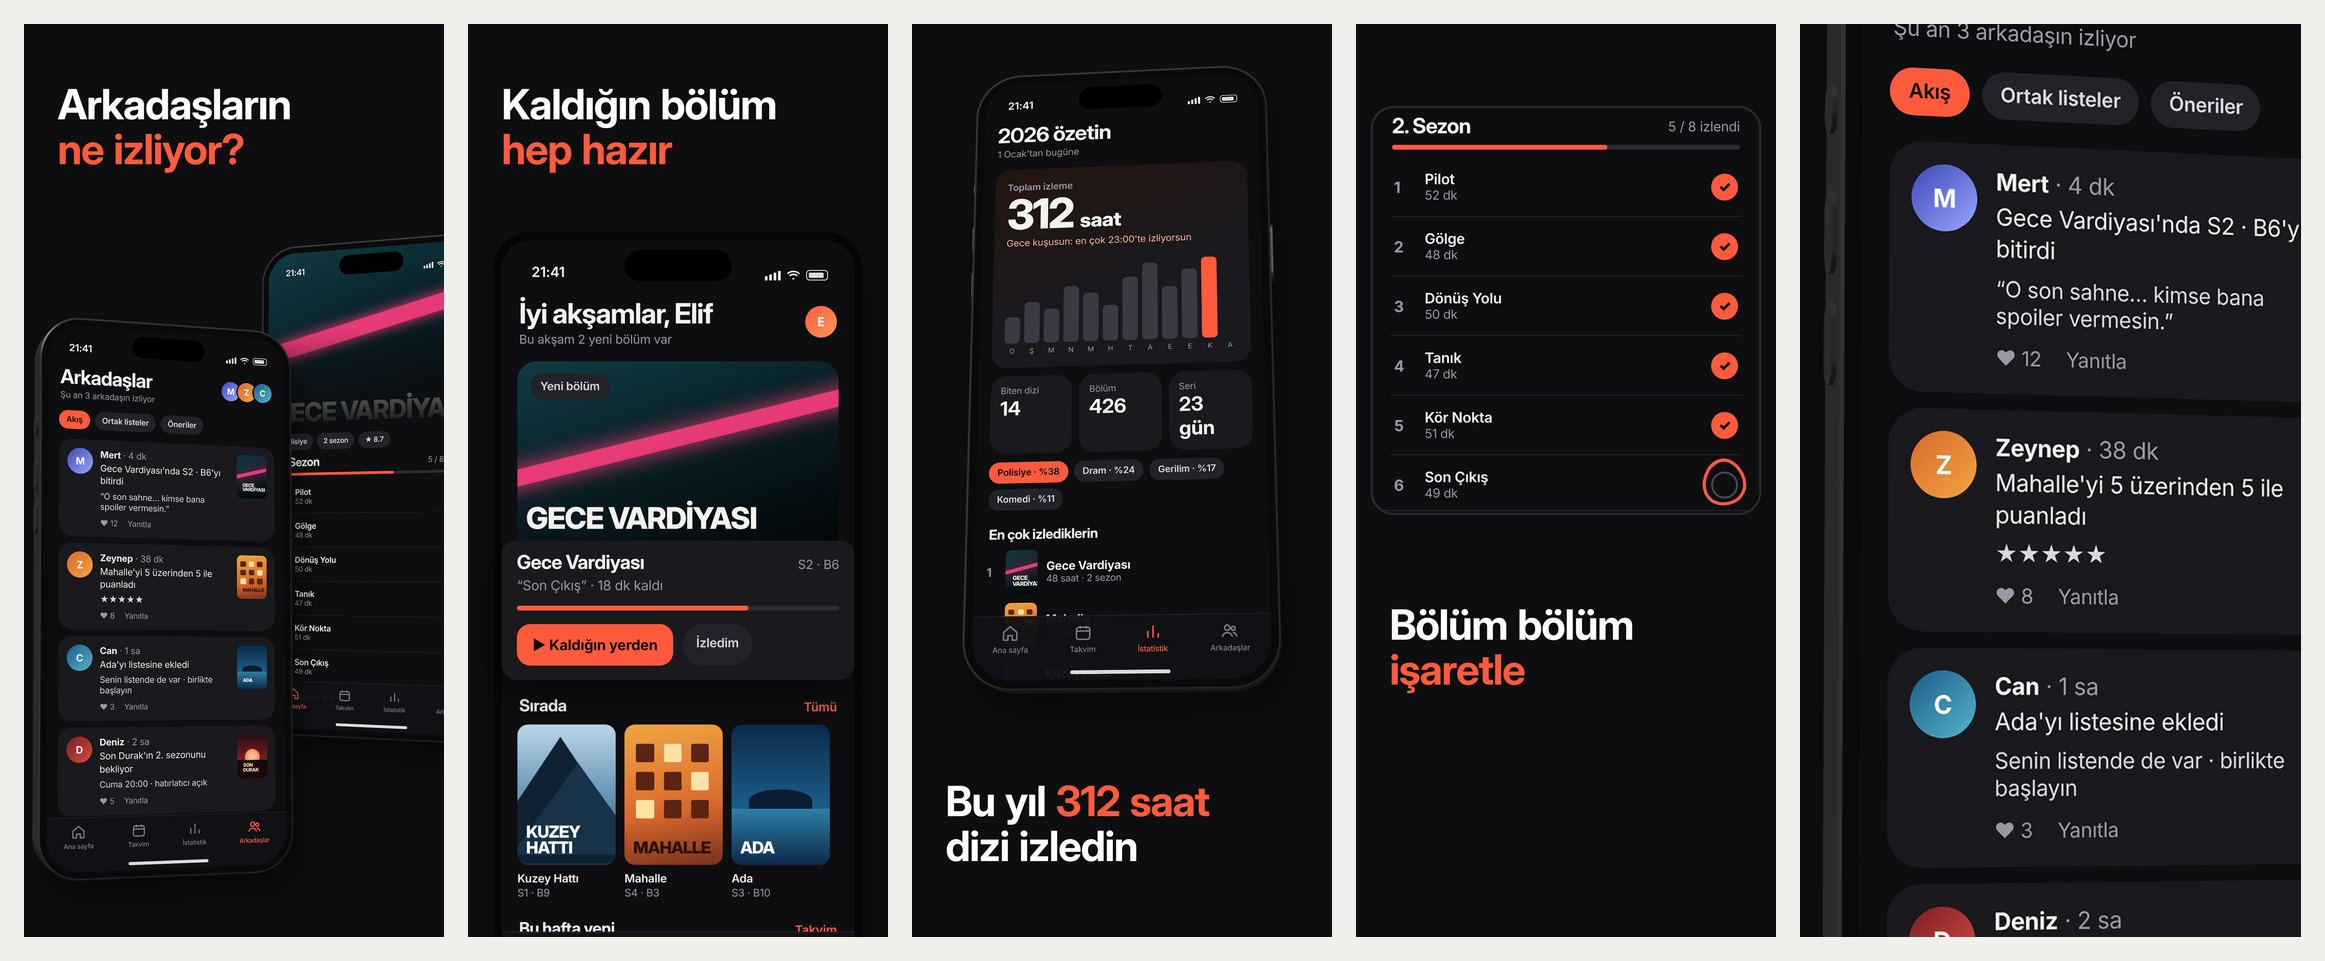
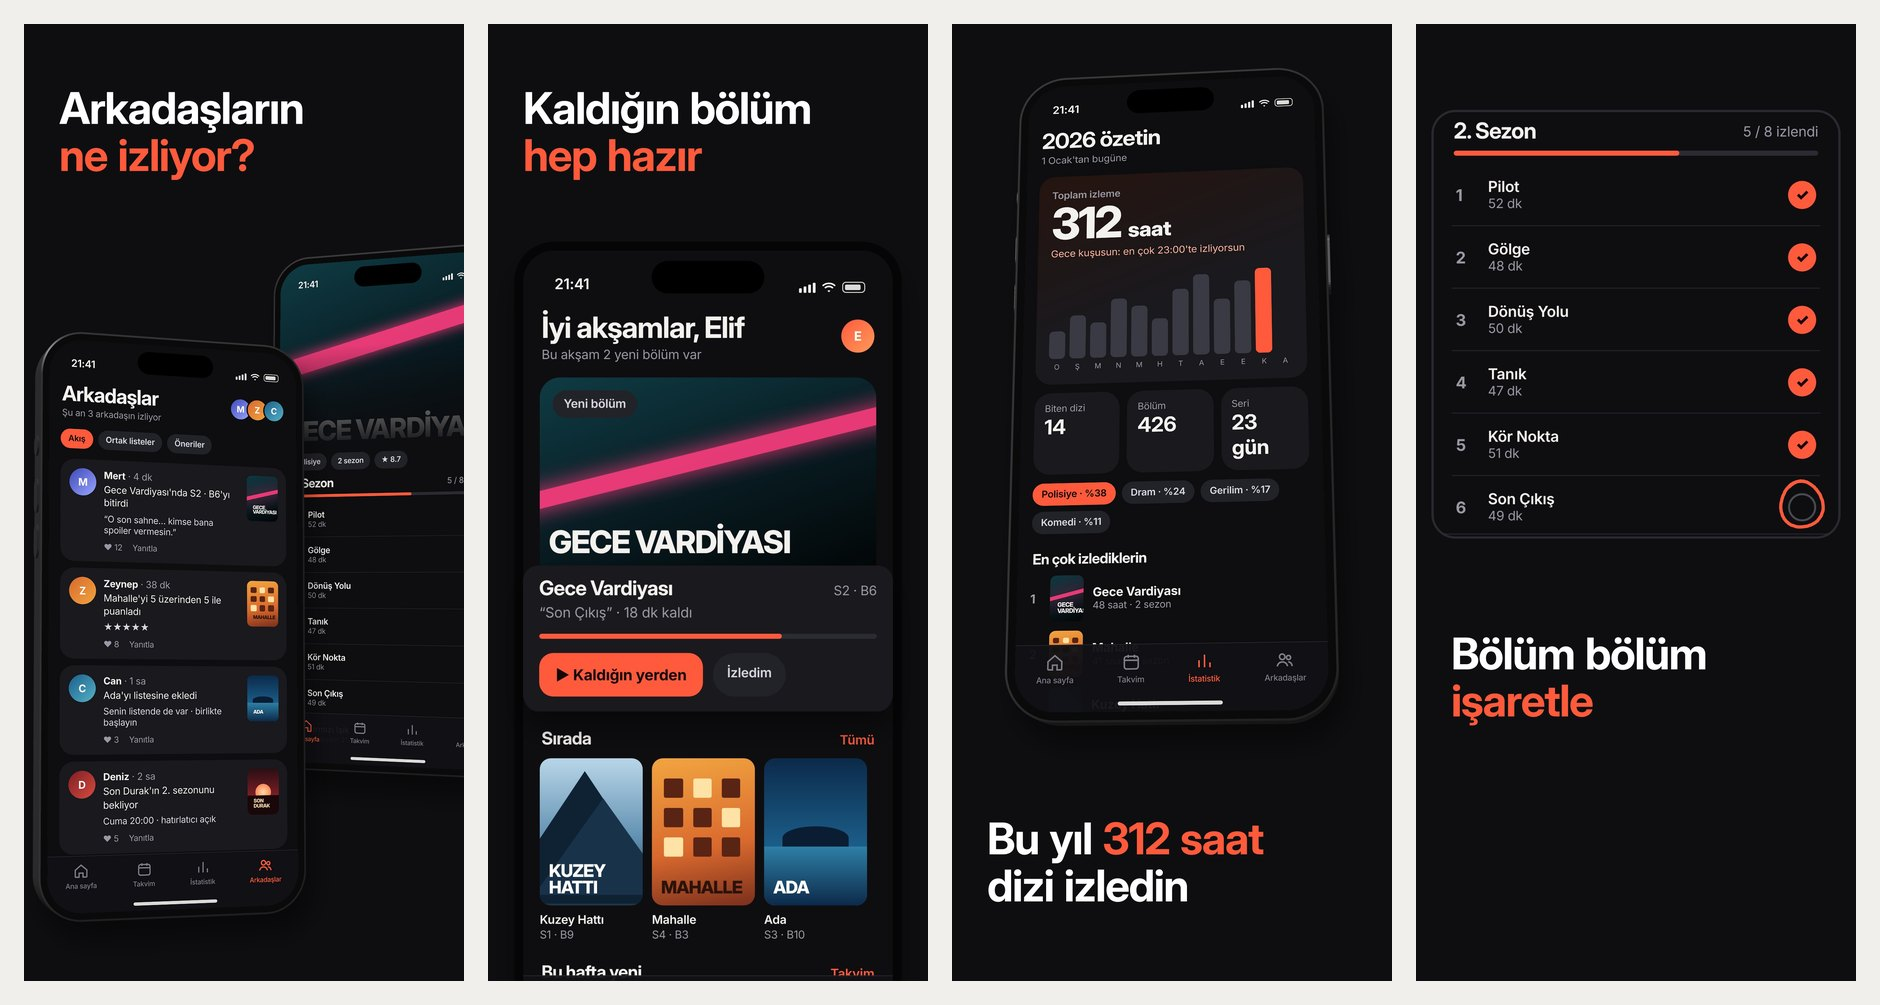
README 3D image: drop the 100 % detail panel
A crop out of a screenshot, cut through text on three sides, read as a broken fifth shot. The image now shows only the four shots.

Changed region(s): [[0.0, 0.0, 1.0, 0.999], [0.4319, 0.9677, 0.4628, 0.999]]

diff --git a/README.md b/README.md
@@ -99,7 +99,7 @@ python3 $S/compose.py render examples/seenfy-v2/set.json --out out/       # ios,
 - The renderer warns when the far side stops reading, when a device floats with no shadow, when the lenses
   differ, and when turned phones appear in most shots.
 
-![3D devices: two phones facing each other, a flat shot, one laid back, a flat shot, and a 100 % detail](docs/images/device3d-example.jpg)
+![3D devices: two phones facing each other, a flat shot, one laid back, a flat shot](docs/images/device3d-example.jpg)
 
 <details><summary>The bundled scene example (fictional app, <code>templates/scene.example.json</code>, concept "Tek Turuncu")</summary>
 
